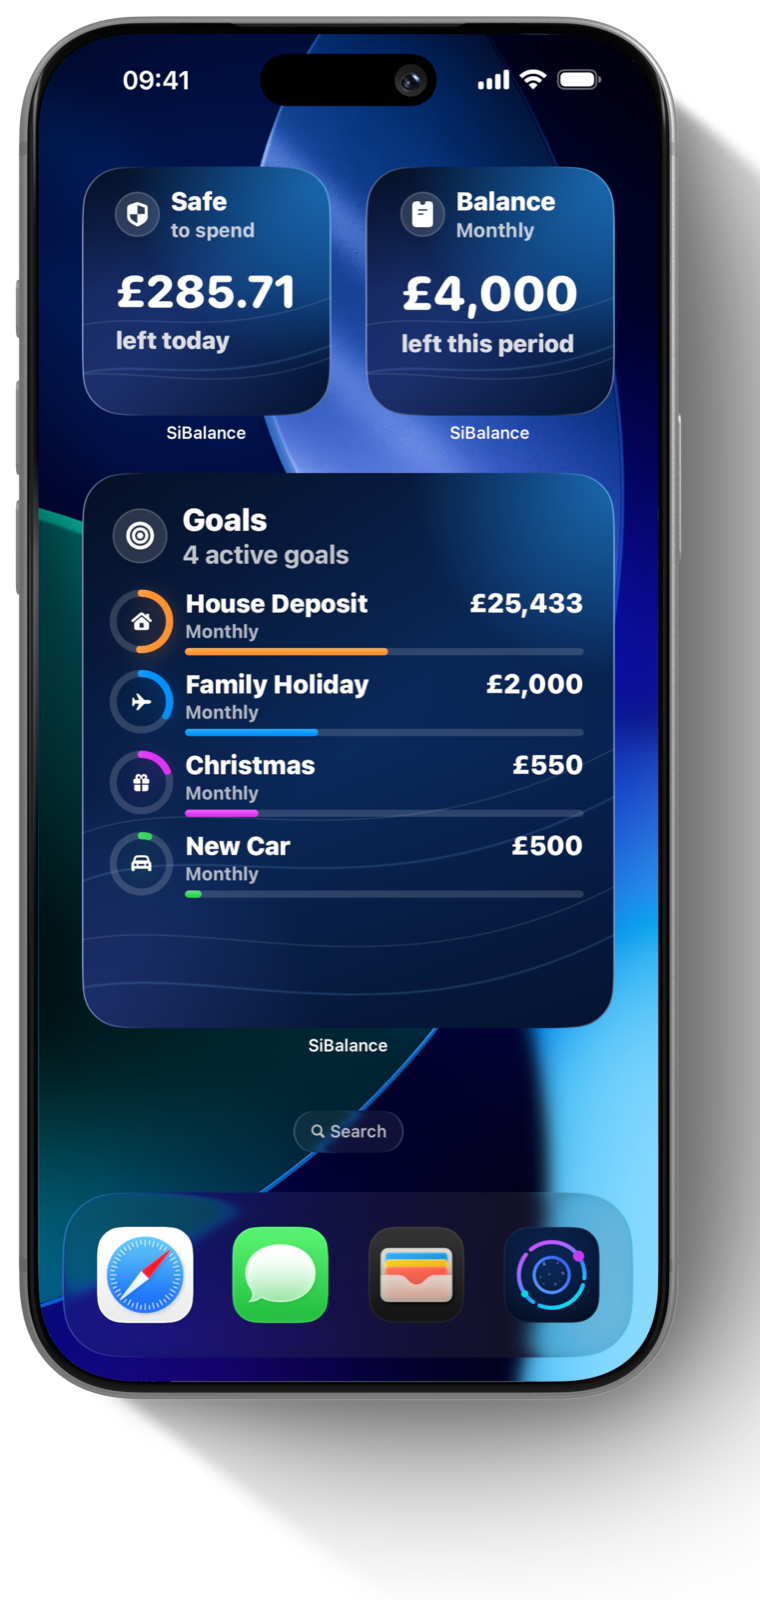
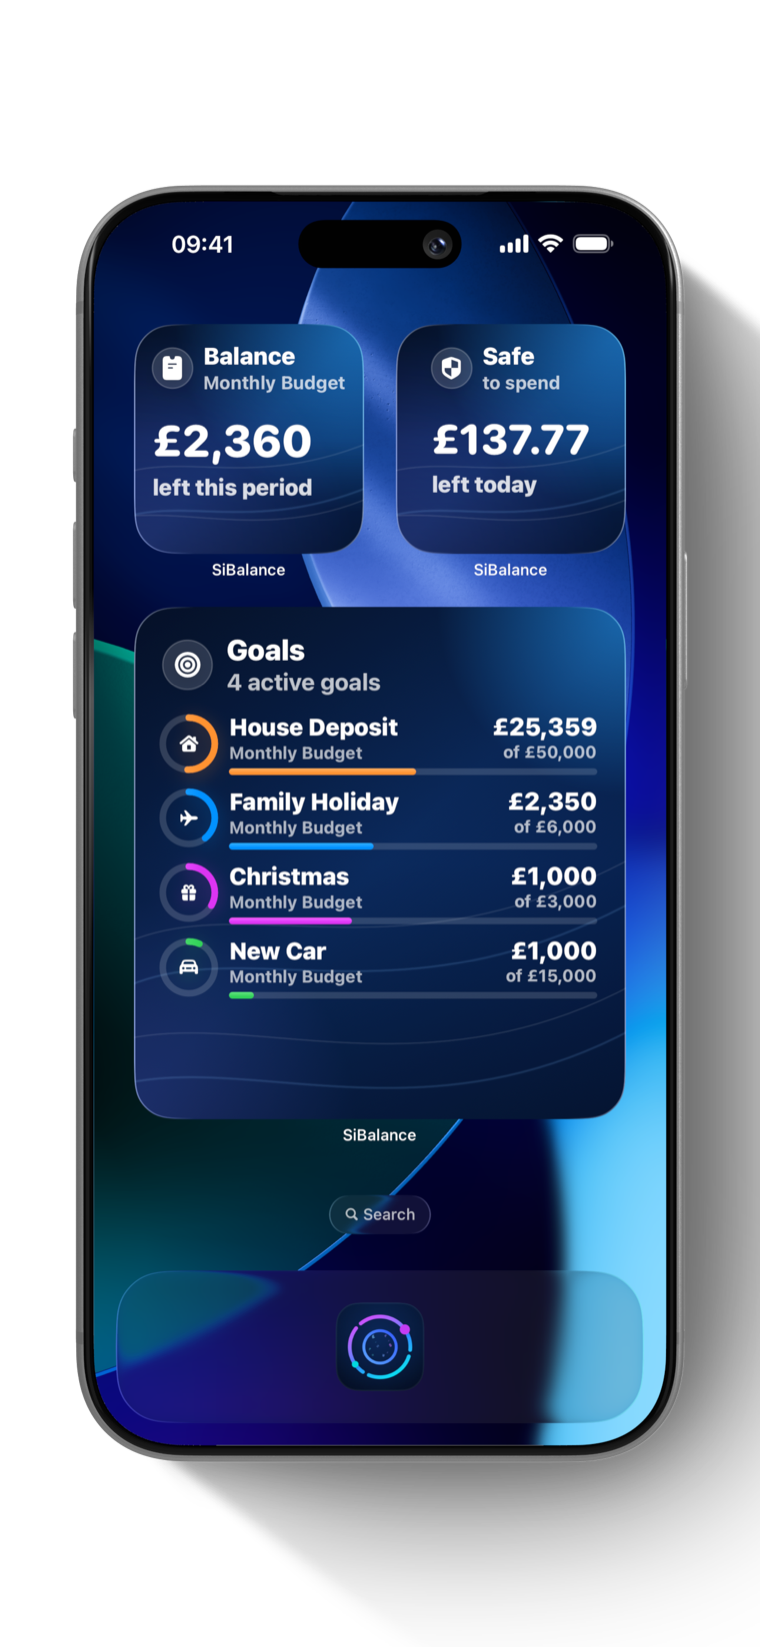
Update widgets feature screenshot

diff --git a/index.html b/index.html
@@ -181,7 +181,7 @@
           </ul>
         </div>
         <figure class="feature-visual">
-          <img src="assets/feature-widgets.png?v=3" alt="SiBalance Home Screen widgets showing Safe to Spend, balance and active Goals" width="760" height="1600" loading="lazy">
+          <img src="assets/feature-widgets.png?v=4" alt="SiBalance Home Screen widgets showing Safe to Spend, balance and active Goals" width="760" height="1647" loading="lazy">
         </figure>
       </div>
     </section>
